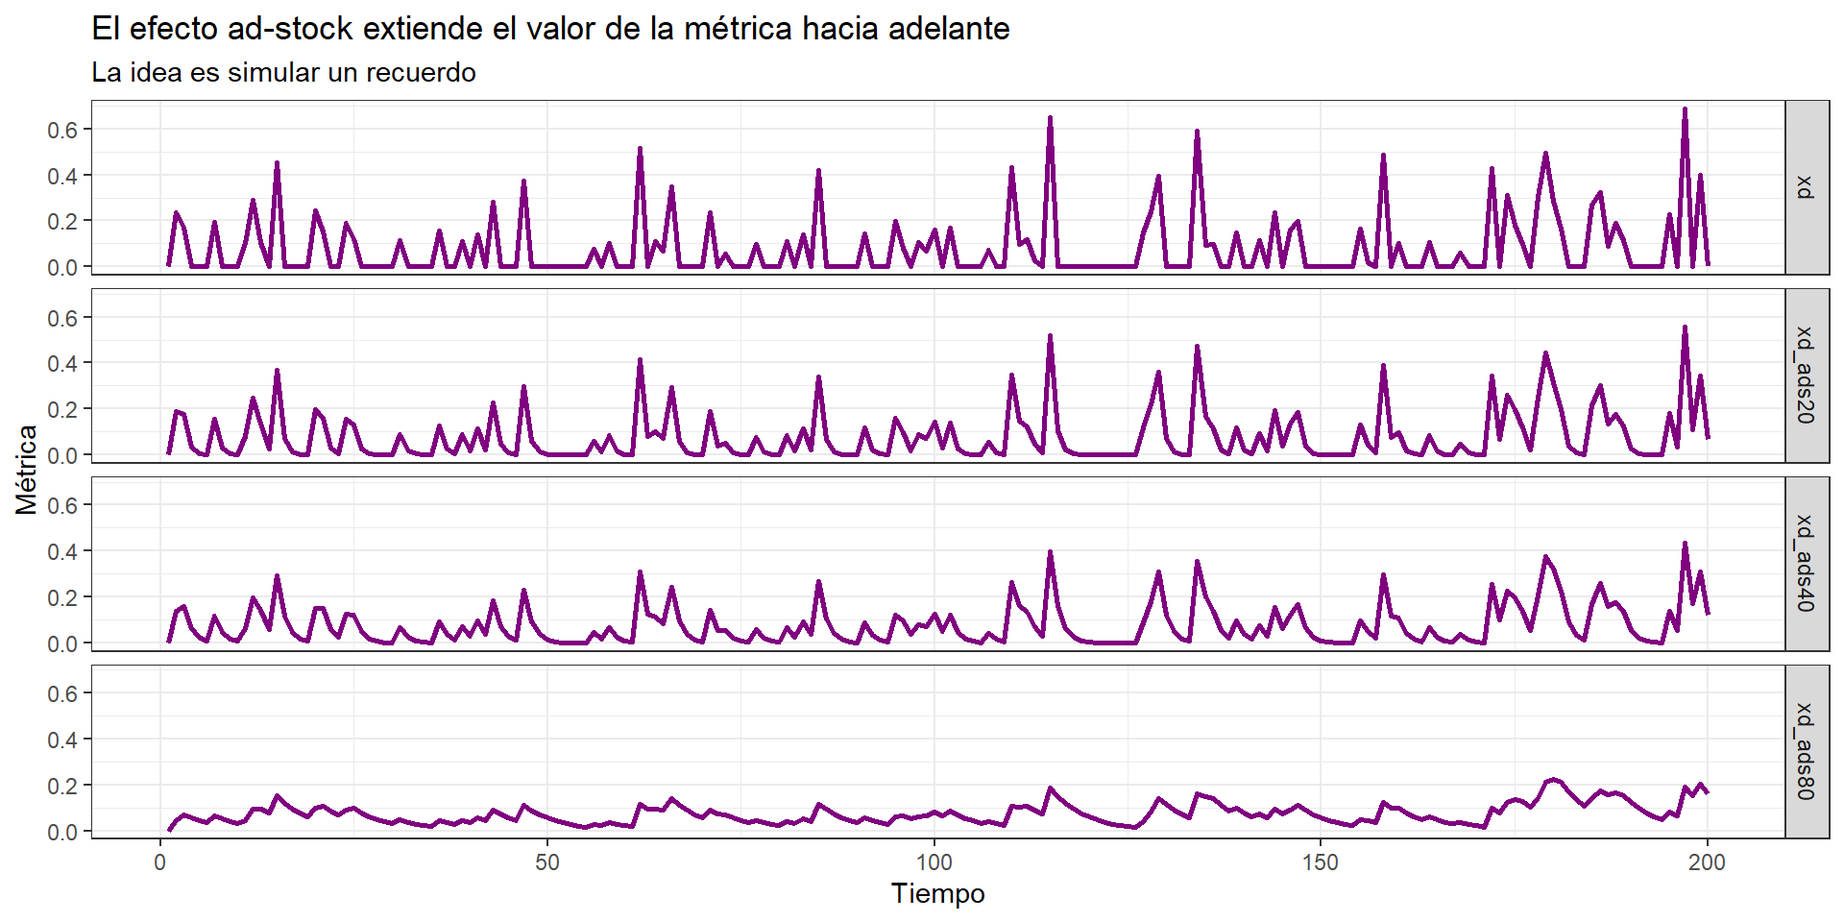
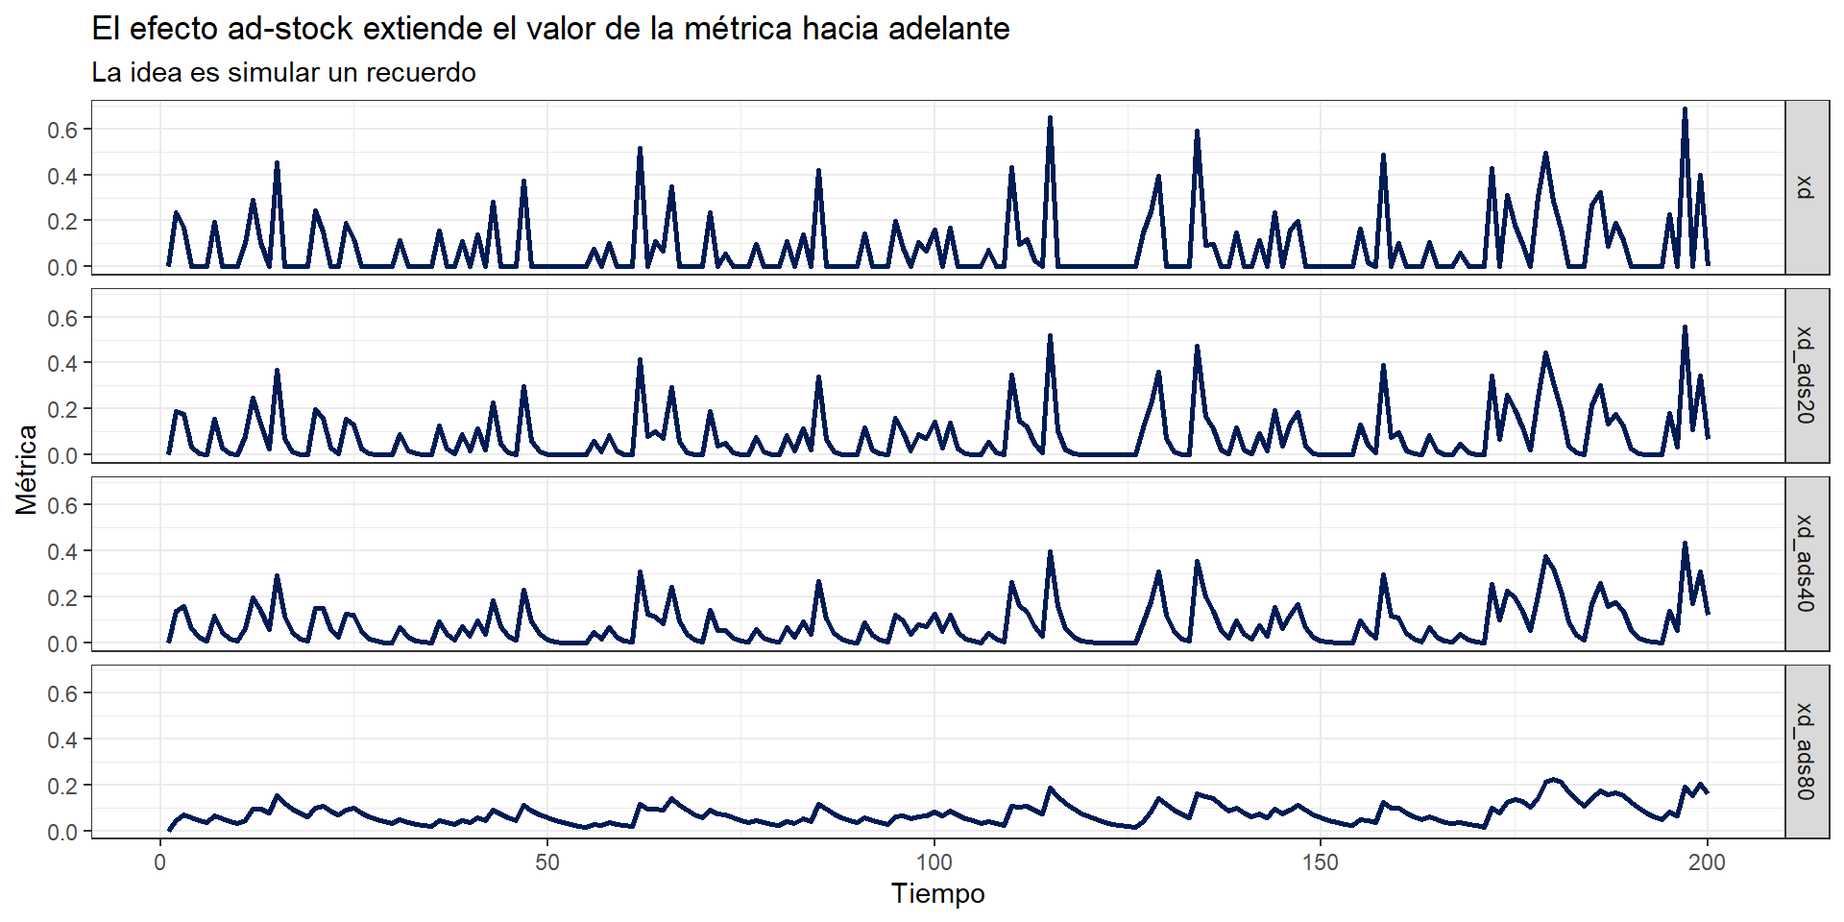
shiny and colors

diff --git a/docs/site_libs/revealjs/dist/theme/quarto.css b/docs/site_libs/revealjs/dist/theme/quarto.css
@@ -1,4 +1,4 @@
-@import"https://fonts.googleapis.com/css?family=News+Cycle:400,700";@import"https://fonts.googleapis.com/css?family=Lato:400,700,400italic,700italic";@import"./fonts/source-sans-pro/source-sans-pro.css";:root{--r-background-color: #fff;--r-main-font: Lato, sans-serif;--r-main-font-size: 40px;--r-main-color: #000;--r-block-margin: 12px;--r-heading-margin: 0 0 12px 0;--r-heading-font: News Cycle, sans-serif;--r-heading-color: #800080;--r-heading-line-height: 1.2;--r-heading-letter-spacing: normal;--r-heading-text-transform: none;--r-heading-text-shadow: none;--r-heading-font-weight: 600;--r-heading1-text-shadow: none;--r-heading1-size: 2.5em;--r-heading2-size: 1.6em;--r-heading3-size: 1.3em;--r-heading4-size: 1em;--r-code-font: SFMono-Regular, Menlo, Monaco, Consolas, Liberation Mono, Courier New, monospace;--r-link-color: #00008b;--r-link-color-dark: #00003f;--r-link-color-hover: #0000be;--r-selection-background-color: rgba(0, 0, 0, 0.99);--r-selection-color: #fff}.reveal-viewport{background:#fff;background-color:var(--r-background-color)}.reveal{font-family:var(--r-main-font);font-size:var(--r-main-font-size);font-weight:normal;color:var(--r-main-color)}.reveal ::selection{color:var(--r-selection-color);background:var(--r-selection-background-color);text-shadow:none}.reveal ::-moz-selection{color:var(--r-selection-color);background:var(--r-selection-background-color);text-shadow:none}.reveal .slides section,.reveal .slides section>section{line-height:1.3;font-weight:inherit}.reveal h1,.reveal h2,.reveal h3,.reveal h4,.reveal h5,.reveal h6{margin:var(--r-heading-margin);color:var(--r-heading-color);font-family:var(--r-heading-font);font-weight:var(--r-heading-font-weight);line-height:var(--r-heading-line-height);letter-spacing:var(--r-heading-letter-spacing);text-transform:var(--r-heading-text-transform);text-shadow:var(--r-heading-text-shadow);word-wrap:break-word}.reveal h1{font-size:var(--r-heading1-size)}.reveal h2{font-size:var(--r-heading2-size)}.reveal h3{font-size:var(--r-heading3-size)}.reveal h4{font-size:var(--r-heading4-size)}.reveal h1{text-shadow:var(--r-heading1-text-shadow)}.reveal p{margin:var(--r-block-margin) 0;line-height:1.3}.reveal h1:last-child,.reveal h2:last-child,.reveal h3:last-child,.reveal h4:last-child,.reveal h5:last-child,.reveal h6:last-child{margin-bottom:0}.reveal img,.reveal video,.reveal iframe{max-width:95%;max-height:95%}.reveal strong,.reveal b{font-weight:bold}.reveal em{font-style:italic}.reveal ol,.reveal dl,.reveal ul{display:inline-block;text-align:left;margin:0 0 0 1em}.reveal ol{list-style-type:decimal}.reveal ul{list-style-type:disc}.reveal ul ul{list-style-type:square}.reveal ul ul ul{list-style-type:circle}.reveal ul ul,.reveal ul ol,.reveal ol ol,.reveal ol ul{display:block;margin-left:40px}.reveal dt{font-weight:bold}.reveal dd{margin-left:40px}.reveal blockquote{display:block;position:relative;width:70%;margin:var(--r-block-margin) auto;padding:5px;font-style:italic;background:rgba(255,255,255,.05);box-shadow:0px 0px 2px rgba(0,0,0,.2)}.reveal blockquote p:first-child,.reveal blockquote p:last-child{display:inline-block}.reveal q{font-style:italic}.reveal pre{display:block;position:relative;width:90%;margin:var(--r-block-margin) auto;text-align:left;font-size:.55em;font-family:var(--r-code-font);line-height:1.2em;word-wrap:break-word;box-shadow:0px 5px 15px rgba(0,0,0,.15)}.reveal code{font-family:var(--r-code-font);text-transform:none;tab-size:2}.reveal pre code{display:block;padding:5px;overflow:auto;max-height:400px;word-wrap:normal}.reveal .code-wrapper{white-space:normal}.reveal .code-wrapper code{white-space:pre}.reveal table{margin:auto;border-collapse:collapse;border-spacing:0}.reveal table th{font-weight:bold}.reveal table th,.reveal table td{text-align:left;padding:.2em .5em .2em .5em;border-bottom:1px solid}.reveal table th[align=center],.reveal table td[align=center]{text-align:center}.reveal table th[align=right],.reveal table td[align=right]{text-align:right}.reveal table tbody tr:last-child th,.reveal table tbody tr:last-child td{border-bottom:none}.reveal sup{vertical-align:super;font-size:smaller}.reveal sub{vertical-align:sub;font-size:smaller}.reveal small{display:inline-block;font-size:.6em;line-height:1.2em;vertical-align:top}.reveal small *{vertical-align:top}.reveal img{margin:var(--r-block-margin) 0}.reveal a{color:var(--r-link-color);text-decoration:none;transition:color .15s ease}.reveal a:hover{color:var(--r-link-color-hover);text-shadow:none;border:none}.reveal .roll span:after{color:#fff;background:var(--r-link-color-dark)}.reveal .r-frame{border:4px solid var(--r-main-color);box-shadow:0 0 10px rgba(0,0,0,.15)}.reveal a .r-frame{transition:all .15s linear}.reveal a:hover .r-frame{border-color:var(--r-link-color);box-shadow:0 0 20px rgba(0,0,0,.55)}.reveal .controls{color:var(--r-link-color)}.reveal .progress{background:rgba(0,0,0,.2);color:var(--r-link-color)}@media print{.backgrounds{background-color:var(--r-background-color)}}.top-right{position:absolute;top:1em;right:1em}.visually-hidden{border:0;clip:rect(0 0 0 0);height:auto;margin:0;overflow:hidden;padding:0;position:absolute;width:1px;white-space:nowrap}.hidden{display:none !important}.zindex-bottom{z-index:-1 !important}figure.figure{display:block}.quarto-layout-panel{margin-bottom:1em}.quarto-layout-panel>figure{width:100%}.quarto-layout-panel>figure>figcaption,.quarto-layout-panel>.panel-caption{margin-top:10pt}.quarto-layout-panel>.table-caption{margin-top:0px}.table-caption p{margin-bottom:.5em}.quarto-layout-row{display:flex;flex-direction:row;align-items:flex-start}.quarto-layout-valign-top{align-items:flex-start}.quarto-layout-valign-bottom{align-items:flex-end}.quarto-layout-valign-center{align-items:center}.quarto-layout-cell{position:relative;margin-right:20px}.quarto-layout-cell:last-child{margin-right:0}.quarto-layout-cell figure,.quarto-layout-cell>p{margin:.2em}.quarto-layout-cell img{max-width:100%}.quarto-layout-cell .html-widget{width:100% !important}.quarto-layout-cell div figure p{margin:0}.quarto-layout-cell figure{display:block;margin-inline-start:0;margin-inline-end:0}.quarto-layout-cell table{display:inline-table}.quarto-layout-cell-subref figcaption,figure .quarto-layout-row figure figcaption{text-align:center;font-style:italic}.quarto-figure{position:relative;margin-bottom:1em}.quarto-figure>figure{width:100%;margin-bottom:0}.quarto-figure-left>figure>p,.quarto-figure-left>figure>div{text-align:left}.quarto-figure-center>figure>p,.quarto-figure-center>figure>div{text-align:center}.quarto-figure-right>figure>p,.quarto-figure-right>figure>div{text-align:right}.quarto-figure>figure>div.cell-annotation,.quarto-figure>figure>div code{text-align:left}figure>p:empty{display:none}figure>p:first-child{margin-top:0;margin-bottom:0}figure>figcaption.quarto-float-caption-bottom{margin-bottom:.5em}figure>figcaption.quarto-float-caption-top{margin-top:.5em}div[id^=tbl-]{position:relative}.quarto-figure>.anchorjs-link{position:absolute;top:.6em;right:.5em}div[id^=tbl-]>.anchorjs-link{position:absolute;top:.7em;right:.3em}.quarto-figure:hover>.anchorjs-link,div[id^=tbl-]:hover>.anchorjs-link,h2:hover>.anchorjs-link,h3:hover>.anchorjs-link,h4:hover>.anchorjs-link,h5:hover>.anchorjs-link,h6:hover>.anchorjs-link,.reveal-anchorjs-link>.anchorjs-link{opacity:1}#title-block-header{margin-block-end:1rem;position:relative;margin-top:-1px}#title-block-header .abstract{margin-block-start:1rem}#title-block-header .abstract .abstract-title{font-weight:600}#title-block-header a{text-decoration:none}#title-block-header .author,#title-block-header .date,#title-block-header .doi{margin-block-end:.2rem}#title-block-header .quarto-title-block>div{display:flex}#title-block-header .quarto-title-block>div>h1{flex-grow:1}#title-block-header .quarto-title-block>div>button{flex-shrink:0;height:2.25rem;margin-top:0}tr.header>th>p:last-of-type{margin-bottom:0px}table,table.table{margin-top:.5rem;margin-bottom:.5rem}caption,.table-caption{padding-top:.5rem;padding-bottom:.5rem;text-align:center}figure.quarto-float-tbl figcaption.quarto-float-caption-top{margin-top:.5rem;margin-bottom:.25rem;text-align:center}figure.quarto-float-tbl figcaption.quarto-float-caption-bottom{padding-top:.25rem;margin-bottom:.5rem;text-align:center}.utterances{max-width:none;margin-left:-8px}iframe{margin-bottom:1em}details{margin-bottom:1em}details[show]{margin-bottom:0}details>summary{color:#4d4d4d}details>summary>p:only-child{display:inline}pre.sourceCode,code.sourceCode{position:relative}dd code:not(.sourceCode),p code:not(.sourceCode){white-space:pre-wrap}code{white-space:pre}@media print{code{white-space:pre-wrap}}pre>code{display:block}pre>code.sourceCode{white-space:pre}pre>code.sourceCode>span>a:first-child::before{text-decoration:none}pre.code-overflow-wrap>code.sourceCode{white-space:pre-wrap}pre.code-overflow-scroll>code.sourceCode{white-space:pre}code a:any-link{color:inherit;text-decoration:none}code a:hover{color:inherit;text-decoration:underline}ul.task-list{padding-left:1em}[data-tippy-root]{display:inline-block}.tippy-content .footnote-back{display:none}.footnote-back{margin-left:.2em}.tippy-content{overflow-x:auto}.quarto-embedded-source-code{display:none}.quarto-unresolved-ref{font-weight:600}.quarto-cover-image{max-width:35%;float:right;margin-left:30px}.cell-output-display .widget-subarea{margin-bottom:1em}.cell-output-display:not(.no-overflow-x),.knitsql-table:not(.no-overflow-x){overflow-x:auto}.panel-input{margin-bottom:1em}.panel-input>div,.panel-input>div>div{display:inline-block;vertical-align:top;padding-right:12px}.panel-input>p:last-child{margin-bottom:0}.layout-sidebar{margin-bottom:1em}.layout-sidebar .tab-content{border:none}.tab-content>.page-columns.active{display:grid}div.sourceCode>iframe{width:100%;height:300px;margin-bottom:-0.5em}a{text-underline-offset:3px}div.ansi-escaped-output{font-family:monospace;display:block}/*!
+@import"https://fonts.googleapis.com/css?family=News+Cycle:400,700";@import"https://fonts.googleapis.com/css?family=Lato:400,700,400italic,700italic";@import"./fonts/source-sans-pro/source-sans-pro.css";:root{--r-background-color: #fff;--r-main-font: Lato, sans-serif;--r-main-font-size: 40px;--r-main-color: #000;--r-block-margin: 12px;--r-heading-margin: 0 0 12px 0;--r-heading-font: News Cycle, sans-serif;--r-heading-color: #001c54;--r-heading-line-height: 1.2;--r-heading-letter-spacing: normal;--r-heading-text-transform: none;--r-heading-text-shadow: none;--r-heading-font-weight: 600;--r-heading1-text-shadow: none;--r-heading1-size: 2.5em;--r-heading2-size: 1.6em;--r-heading3-size: 1.3em;--r-heading4-size: 1em;--r-code-font: SFMono-Regular, Menlo, Monaco, Consolas, Liberation Mono, Courier New, monospace;--r-link-color: #00008b;--r-link-color-dark: #00003f;--r-link-color-hover: #0000be;--r-selection-background-color: rgba(0, 0, 0, 0.99);--r-selection-color: #fff}.reveal-viewport{background:#fff;background-color:var(--r-background-color)}.reveal{font-family:var(--r-main-font);font-size:var(--r-main-font-size);font-weight:normal;color:var(--r-main-color)}.reveal ::selection{color:var(--r-selection-color);background:var(--r-selection-background-color);text-shadow:none}.reveal ::-moz-selection{color:var(--r-selection-color);background:var(--r-selection-background-color);text-shadow:none}.reveal .slides section,.reveal .slides section>section{line-height:1.3;font-weight:inherit}.reveal h1,.reveal h2,.reveal h3,.reveal h4,.reveal h5,.reveal h6{margin:var(--r-heading-margin);color:var(--r-heading-color);font-family:var(--r-heading-font);font-weight:var(--r-heading-font-weight);line-height:var(--r-heading-line-height);letter-spacing:var(--r-heading-letter-spacing);text-transform:var(--r-heading-text-transform);text-shadow:var(--r-heading-text-shadow);word-wrap:break-word}.reveal h1{font-size:var(--r-heading1-size)}.reveal h2{font-size:var(--r-heading2-size)}.reveal h3{font-size:var(--r-heading3-size)}.reveal h4{font-size:var(--r-heading4-size)}.reveal h1{text-shadow:var(--r-heading1-text-shadow)}.reveal p{margin:var(--r-block-margin) 0;line-height:1.3}.reveal h1:last-child,.reveal h2:last-child,.reveal h3:last-child,.reveal h4:last-child,.reveal h5:last-child,.reveal h6:last-child{margin-bottom:0}.reveal img,.reveal video,.reveal iframe{max-width:95%;max-height:95%}.reveal strong,.reveal b{font-weight:bold}.reveal em{font-style:italic}.reveal ol,.reveal dl,.reveal ul{display:inline-block;text-align:left;margin:0 0 0 1em}.reveal ol{list-style-type:decimal}.reveal ul{list-style-type:disc}.reveal ul ul{list-style-type:square}.reveal ul ul ul{list-style-type:circle}.reveal ul ul,.reveal ul ol,.reveal ol ol,.reveal ol ul{display:block;margin-left:40px}.reveal dt{font-weight:bold}.reveal dd{margin-left:40px}.reveal blockquote{display:block;position:relative;width:70%;margin:var(--r-block-margin) auto;padding:5px;font-style:italic;background:rgba(255,255,255,.05);box-shadow:0px 0px 2px rgba(0,0,0,.2)}.reveal blockquote p:first-child,.reveal blockquote p:last-child{display:inline-block}.reveal q{font-style:italic}.reveal pre{display:block;position:relative;width:90%;margin:var(--r-block-margin) auto;text-align:left;font-size:.55em;font-family:var(--r-code-font);line-height:1.2em;word-wrap:break-word;box-shadow:0px 5px 15px rgba(0,0,0,.15)}.reveal code{font-family:var(--r-code-font);text-transform:none;tab-size:2}.reveal pre code{display:block;padding:5px;overflow:auto;max-height:400px;word-wrap:normal}.reveal .code-wrapper{white-space:normal}.reveal .code-wrapper code{white-space:pre}.reveal table{margin:auto;border-collapse:collapse;border-spacing:0}.reveal table th{font-weight:bold}.reveal table th,.reveal table td{text-align:left;padding:.2em .5em .2em .5em;border-bottom:1px solid}.reveal table th[align=center],.reveal table td[align=center]{text-align:center}.reveal table th[align=right],.reveal table td[align=right]{text-align:right}.reveal table tbody tr:last-child th,.reveal table tbody tr:last-child td{border-bottom:none}.reveal sup{vertical-align:super;font-size:smaller}.reveal sub{vertical-align:sub;font-size:smaller}.reveal small{display:inline-block;font-size:.6em;line-height:1.2em;vertical-align:top}.reveal small *{vertical-align:top}.reveal img{margin:var(--r-block-margin) 0}.reveal a{color:var(--r-link-color);text-decoration:none;transition:color .15s ease}.reveal a:hover{color:var(--r-link-color-hover);text-shadow:none;border:none}.reveal .roll span:after{color:#fff;background:var(--r-link-color-dark)}.reveal .r-frame{border:4px solid var(--r-main-color);box-shadow:0 0 10px rgba(0,0,0,.15)}.reveal a .r-frame{transition:all .15s linear}.reveal a:hover .r-frame{border-color:var(--r-link-color);box-shadow:0 0 20px rgba(0,0,0,.55)}.reveal .controls{color:var(--r-link-color)}.reveal .progress{background:rgba(0,0,0,.2);color:var(--r-link-color)}@media print{.backgrounds{background-color:var(--r-background-color)}}.top-right{position:absolute;top:1em;right:1em}.visually-hidden{border:0;clip:rect(0 0 0 0);height:auto;margin:0;overflow:hidden;padding:0;position:absolute;width:1px;white-space:nowrap}.hidden{display:none !important}.zindex-bottom{z-index:-1 !important}figure.figure{display:block}.quarto-layout-panel{margin-bottom:1em}.quarto-layout-panel>figure{width:100%}.quarto-layout-panel>figure>figcaption,.quarto-layout-panel>.panel-caption{margin-top:10pt}.quarto-layout-panel>.table-caption{margin-top:0px}.table-caption p{margin-bottom:.5em}.quarto-layout-row{display:flex;flex-direction:row;align-items:flex-start}.quarto-layout-valign-top{align-items:flex-start}.quarto-layout-valign-bottom{align-items:flex-end}.quarto-layout-valign-center{align-items:center}.quarto-layout-cell{position:relative;margin-right:20px}.quarto-layout-cell:last-child{margin-right:0}.quarto-layout-cell figure,.quarto-layout-cell>p{margin:.2em}.quarto-layout-cell img{max-width:100%}.quarto-layout-cell .html-widget{width:100% !important}.quarto-layout-cell div figure p{margin:0}.quarto-layout-cell figure{display:block;margin-inline-start:0;margin-inline-end:0}.quarto-layout-cell table{display:inline-table}.quarto-layout-cell-subref figcaption,figure .quarto-layout-row figure figcaption{text-align:center;font-style:italic}.quarto-figure{position:relative;margin-bottom:1em}.quarto-figure>figure{width:100%;margin-bottom:0}.quarto-figure-left>figure>p,.quarto-figure-left>figure>div{text-align:left}.quarto-figure-center>figure>p,.quarto-figure-center>figure>div{text-align:center}.quarto-figure-right>figure>p,.quarto-figure-right>figure>div{text-align:right}.quarto-figure>figure>div.cell-annotation,.quarto-figure>figure>div code{text-align:left}figure>p:empty{display:none}figure>p:first-child{margin-top:0;margin-bottom:0}figure>figcaption.quarto-float-caption-bottom{margin-bottom:.5em}figure>figcaption.quarto-float-caption-top{margin-top:.5em}div[id^=tbl-]{position:relative}.quarto-figure>.anchorjs-link{position:absolute;top:.6em;right:.5em}div[id^=tbl-]>.anchorjs-link{position:absolute;top:.7em;right:.3em}.quarto-figure:hover>.anchorjs-link,div[id^=tbl-]:hover>.anchorjs-link,h2:hover>.anchorjs-link,h3:hover>.anchorjs-link,h4:hover>.anchorjs-link,h5:hover>.anchorjs-link,h6:hover>.anchorjs-link,.reveal-anchorjs-link>.anchorjs-link{opacity:1}#title-block-header{margin-block-end:1rem;position:relative;margin-top:-1px}#title-block-header .abstract{margin-block-start:1rem}#title-block-header .abstract .abstract-title{font-weight:600}#title-block-header a{text-decoration:none}#title-block-header .author,#title-block-header .date,#title-block-header .doi{margin-block-end:.2rem}#title-block-header .quarto-title-block>div{display:flex}#title-block-header .quarto-title-block>div>h1{flex-grow:1}#title-block-header .quarto-title-block>div>button{flex-shrink:0;height:2.25rem;margin-top:0}tr.header>th>p:last-of-type{margin-bottom:0px}table,table.table{margin-top:.5rem;margin-bottom:.5rem}caption,.table-caption{padding-top:.5rem;padding-bottom:.5rem;text-align:center}figure.quarto-float-tbl figcaption.quarto-float-caption-top{margin-top:.5rem;margin-bottom:.25rem;text-align:center}figure.quarto-float-tbl figcaption.quarto-float-caption-bottom{padding-top:.25rem;margin-bottom:.5rem;text-align:center}.utterances{max-width:none;margin-left:-8px}iframe{margin-bottom:1em}details{margin-bottom:1em}details[show]{margin-bottom:0}details>summary{color:#4d4d4d}details>summary>p:only-child{display:inline}pre.sourceCode,code.sourceCode{position:relative}dd code:not(.sourceCode),p code:not(.sourceCode){white-space:pre-wrap}code{white-space:pre}@media print{code{white-space:pre-wrap}}pre>code{display:block}pre>code.sourceCode{white-space:pre}pre>code.sourceCode>span>a:first-child::before{text-decoration:none}pre.code-overflow-wrap>code.sourceCode{white-space:pre-wrap}pre.code-overflow-scroll>code.sourceCode{white-space:pre}code a:any-link{color:inherit;text-decoration:none}code a:hover{color:inherit;text-decoration:underline}ul.task-list{padding-left:1em}[data-tippy-root]{display:inline-block}.tippy-content .footnote-back{display:none}.footnote-back{margin-left:.2em}.tippy-content{overflow-x:auto}.quarto-embedded-source-code{display:none}.quarto-unresolved-ref{font-weight:600}.quarto-cover-image{max-width:35%;float:right;margin-left:30px}.cell-output-display .widget-subarea{margin-bottom:1em}.cell-output-display:not(.no-overflow-x),.knitsql-table:not(.no-overflow-x){overflow-x:auto}.panel-input{margin-bottom:1em}.panel-input>div,.panel-input>div>div{display:inline-block;vertical-align:top;padding-right:12px}.panel-input>p:last-child{margin-bottom:0}.layout-sidebar{margin-bottom:1em}.layout-sidebar .tab-content{border:none}.tab-content>.page-columns.active{display:grid}div.sourceCode>iframe{width:100%;height:300px;margin-bottom:-0.5em}a{text-underline-offset:3px}div.ansi-escaped-output{font-family:monospace;display:block}/*!
 *
 * ansi colors from IPython notebook's
 *

diff --git a/docs/index.html b/docs/index.html
@@ -867,7 +867,7 @@ x' = \frac{x}{x + b}
     }
     return(y)
 }
-&lt;bytecode: 0x0000027045266e28&gt;
+&lt;bytecode: 0x000001f9a8496810&gt;
 &lt;environment: namespace:eble&gt;</code></pre>
 </div>
 </div>
@@ -906,7 +906,7 @@ x' = \frac{x}{x + b}
         return(as.numeric(x))
     }
 }
-&lt;bytecode: 0x0000027045964680&gt;
+&lt;bytecode: 0x000001f9a8b8d6f0&gt;
 &lt;environment: namespace:eble&gt;</code></pre>
 </div>
 </div>
@@ -932,7 +932,7 @@ x' = \frac{x}{x + b}
     }
     x %&gt;% select(-..check..)
 }
-&lt;bytecode: 0x000002704539b120&gt;
+&lt;bytecode: 0x000001f9a863da50&gt;
 &lt;environment: namespace:ebility&gt;</code></pre>
 </div>
 </div>
@@ -955,24 +955,30 @@ x' = \frac{x}{x + b}
             qmethod = "double", row.names = FALSE, ...)
     }
 }
-&lt;bytecode: 0x0000027042818880&gt;
+&lt;bytecode: 0x000001f9a62b2c38&gt;
 &lt;environment: namespace:ebility&gt;</code></pre>
 </div>
 </div>
 </section>
-<section id="librerías-en-ebverse" class="slide level2 smaller">
+<section id="librerías-en-ebverse" class="slide level2">
 <h2>Librerías en ebverse</h2>
+<div class="columns">
+<div class="column" style="width:50%;">
 <ul>
 <li><strong>eble</strong></li>
 <li><strong>ebility</strong></li>
-<li><strong>XSEXCELR.</strong> Algoritmos de modelización.</li>
-<li><strong>debcomp.</strong> Cálculo de contribuciones en modelos multiplicativos.</li>
-<li><strong>ebjobs.</strong> Automatización de procesos de la herramienta de modelización.</li>
-<li><strong>ebcore.</strong> Operaciones tuneadas de R.</li>
-<li><strong>ebdb.</strong> Lectura de datos de distintas fuentes.</li>
-<li><strong>mediaconsolidator.</strong> Procesamiento de datos de inversión en publicidad.</li>
-<li><strong>roicalculator.</strong> Cómputo de retorno de la inversión publicitaria, a partir de las contribuciones de los modelos de <strong>XSEXCELR</strong> y <strong>debcomp</strong> y de lo procesado por <strong>mediaconsolidator</strong>.</li>
+<li><strong>XSEXCELR</strong></li>
+<li><strong>debcomp</strong></li>
+<li><strong>ebjobs</strong></li>
 </ul>
+</div><div class="column" style="width:50%;">
+<ul>
+<li><strong>ebcore</strong></li>
+<li><strong>ebdb</strong></li>
+<li><strong>mediaconsolidator</strong></li>
+<li><strong>roicalculator</strong></li>
+</ul>
+</div></div>
 </section>
 <section id="unos-comentarios" class="slide level2">
 <h2>Unos comentarios</h2>
@@ -997,7 +1003,7 @@ x' = \frac{x}{x + b}
 <h2>Hacemos muy pocos tests</h2>
 
 <img data-src="img/tests-rodolfo.PNG" class="r-stretch"></section>
-<section id="en-un-test-realizas-operaciones-cuyo-resultado-conoces" class="slide level2">
+<section id="en-un-test-realizas-operaciones-cuyo-resultado-conoces" class="slide level2 smaller">
 <h2>En un test realizas operaciones cuyo resultado conoces</h2>
 <p>Cada vez que editas tu librería, ejecutas todos los tests para garantizar que lo nuevo no rompe lo que ya funcionaba</p>
 <div class="cell">
@@ -1194,6 +1200,22 @@ x' = \frac{x}{x + b}
 <h2>¿Qué es una librería?</h2>
 
 <img data-src="img/library-folders.PNG" class="r-stretch"></section>
+<section id="ejemplo-1.-shiny-forecast" class="slide level2">
+<h2>Ejemplo 1. Shiny Forecast</h2>
+
+<img data-src="img/eg_forecast.png" class="r-stretch"></section>
+<section id="ejemplo-2.-chat-generator" class="slide level2">
+<h2>Ejemplo 2. Chat Generator</h2>
+
+<img data-src="img/eg_chart_generator.png" class="r-stretch"></section>
+<section id="ejemplo-3.-algoritmo-genético" class="slide level2">
+<h2>Ejemplo 3. Algoritmo genético</h2>
+
+<img data-src="img/eg_ga.png" class="r-stretch"></section>
+<section id="ejemplo-4.-stl" class="slide level2">
+<h2>Ejemplo 4. STL</h2>
+
+<img data-src="img/eg_stl.png" class="r-stretch"></section>
 <section id="qué-hacemos-mal-1" class="slide level2">
 <h2>Qué hacemos mal</h2>
 <ul>

diff --git a/custom.scss b/custom.scss
@@ -1,5 +1,5 @@
 /*-- scss:defaults --*/
-$presentation-heading-color: #800080 !default;
+$presentation-heading-color: #001c54 !default;
 
 /*-- scss:rules --*/
 img {
